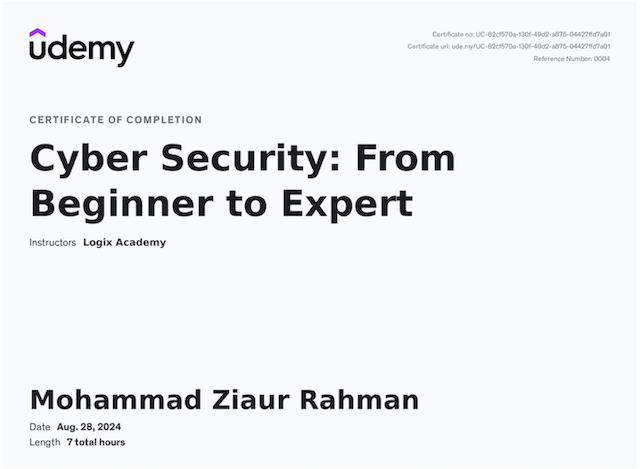
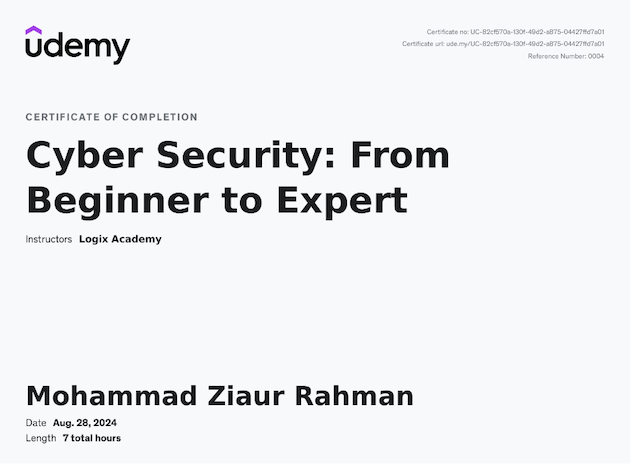
updated certificates insite the grid

diff --git a/app/components/About.js b/app/components/About.js
@@ -1,5 +1,4 @@
 import React from "react";
-import github from "../public/images/github_profile.png";
 import aws from "../public/images/aws_spring_boot_deployment.jpg";
 import playwright from "../public/images/playwright_js_automation.jpg";
 import cyber from "../public/images/cyber_security.png";
@@ -8,32 +7,17 @@ function About() {
   return (
     <div className="container container--narrow py-md-5">
       <h1>About Me</h1>
-      <div id="carouselExampleAutoplaying" class="carousel slide" data-bs-ride="carousel">
-        <div class="carousel-inner">
-          <div class="carousel-item active">
-            <img src={`${github}`} class="d-block w-100" alt="github_profile" />
-          </div>
-          <div class="carousel-item active">
-            <img src={`${aws}`} class="d-block w-100" alt="aws_certificate" />
-          </div>
-          <div class="carousel-item active">
-            <img src={`${playwright}`} class="d-block w-100" alt="playwright_certificate" />
-          </div>
-          <div class="carousel-item active">
-            <img src={`${cyber}`} class="d-block w-100" alt="cyber_security_certificate" />
-          </div>
+      <div className="certificate-container">
+        <div className="certificate">
+          <img src={`${aws}`} alt="aws_certificate" />
         </div>
-        <button class="carousel-control-prev" type="button" data-bs-target="#carouselExampleAutoplaying" data-bs-slide="prev">
-          <span class="carousel-control-prev-icon" aria-hidden="true"></span>
-          <span class="visually-hidden">Previous</span>
-        </button>
-        <button class="carousel-control-next" type="button" data-bs-target="#carouselExampleAutoplaying" data-bs-slide="next">
-          <span class="carousel-control-next-icon" aria-hidden="true"></span>
-          <span class="visually-hidden">Next</span>
-        </button>
+        <div className="certificate">
+          <img src={`${playwright}`} alt="playwright_certificate" />
+        </div>
+        <div className="certificate">
+          <img src={`${cyber}`} alt="cyber_security_certificate" />
+        </div>
       </div>
-      <br />
-
       <p className="about" id="about-id">
         Quality Engineer with over eight years of experience in developing and implementing quality control systems across various software development projects. Skilled in analyzing product and process performance data to drive continuous improvement initiatives. Experienced in both contract and full-time roles, specializing in white-box testing and performance testing within local development environments.
       </p>

diff --git a/webpack.config.js b/webpack.config.js
@@ -17,7 +17,6 @@ class RunAfterCompile {
       fse.copySync("./app/public/images/logo.png", "./dist/public/images/logo.png");
       fse.copySync("./app/public/images/Mohammad_Rahman.JPG", "./dist/public/images/Mohammad_Rahman.JPG");
       fse.copySync("./app/public/images/aws_spring_boot_deployment.jpg", "./dist/public/images/aws_spring_boot_deployment.jpg");
-      fse.copySync("./app/public/images/github_profile.png", "./dist/public/images/github_profile.png");
       fse.copySync("./app/public/images/cyber_security.png", "./dist/public/images/cyber_security.png");
       fse.copySync("./app/public/images/playwright_js_automation.jpg", "./dist/public/images/playwright_js_automation.jpg");
       fse.copySync("./app/public/styles/content.css", "./dist/public/styles/content.css");

diff --git a/app/public/styles/content.css b/app/public/styles/content.css
@@ -156,3 +156,10 @@ h1 {
     justify-content: center;
   }
 }
+
+.certificate-container {
+  display: grid;
+  grid-template-columns: repeat(auto-fill, minmax(450px, 1fr));
+  gap: 20px;
+  margin-bottom: 10px;
+}
